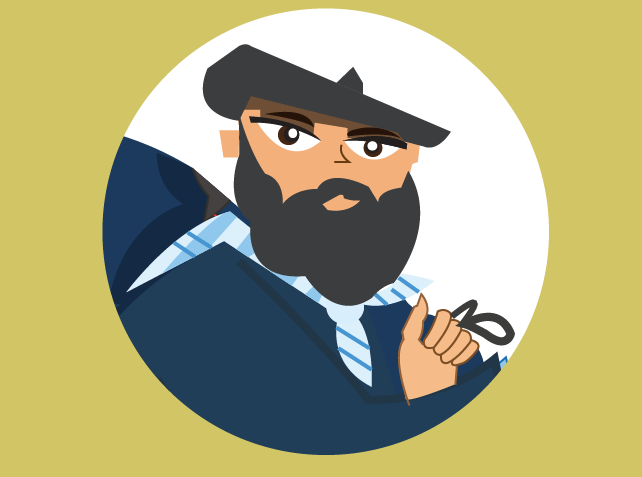
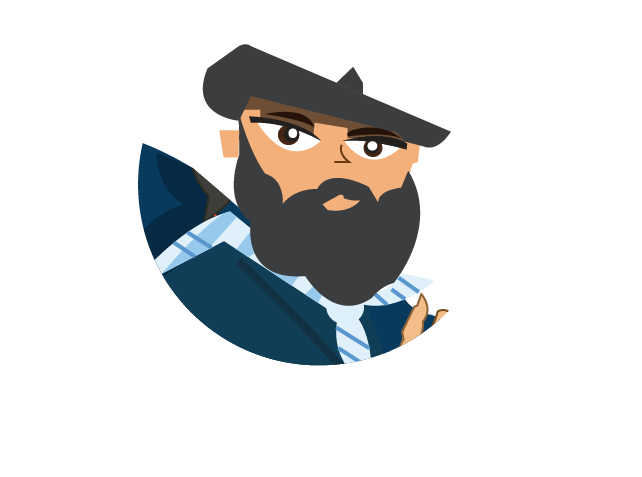
Nueva apariencia, colores más suaves

diff --git a/css/estilos.css b/css/estilos.css
@@ -1,5 +1,5 @@
 body {
-  background-color: #D2C566;
+  /*background-color: #BBBDBF;*/
   margin: 0;
   color: #1B75BB;
 }
@@ -20,6 +20,11 @@ h2 {
 
 h1, h2 {
     padding-left: 2%;
+}
+
+#olentzero-primer-plano {
+  background-image: url("../img/olentzero-postal-05.png");
+  background-repeat: no-repeat;
 }
 
 figure {
